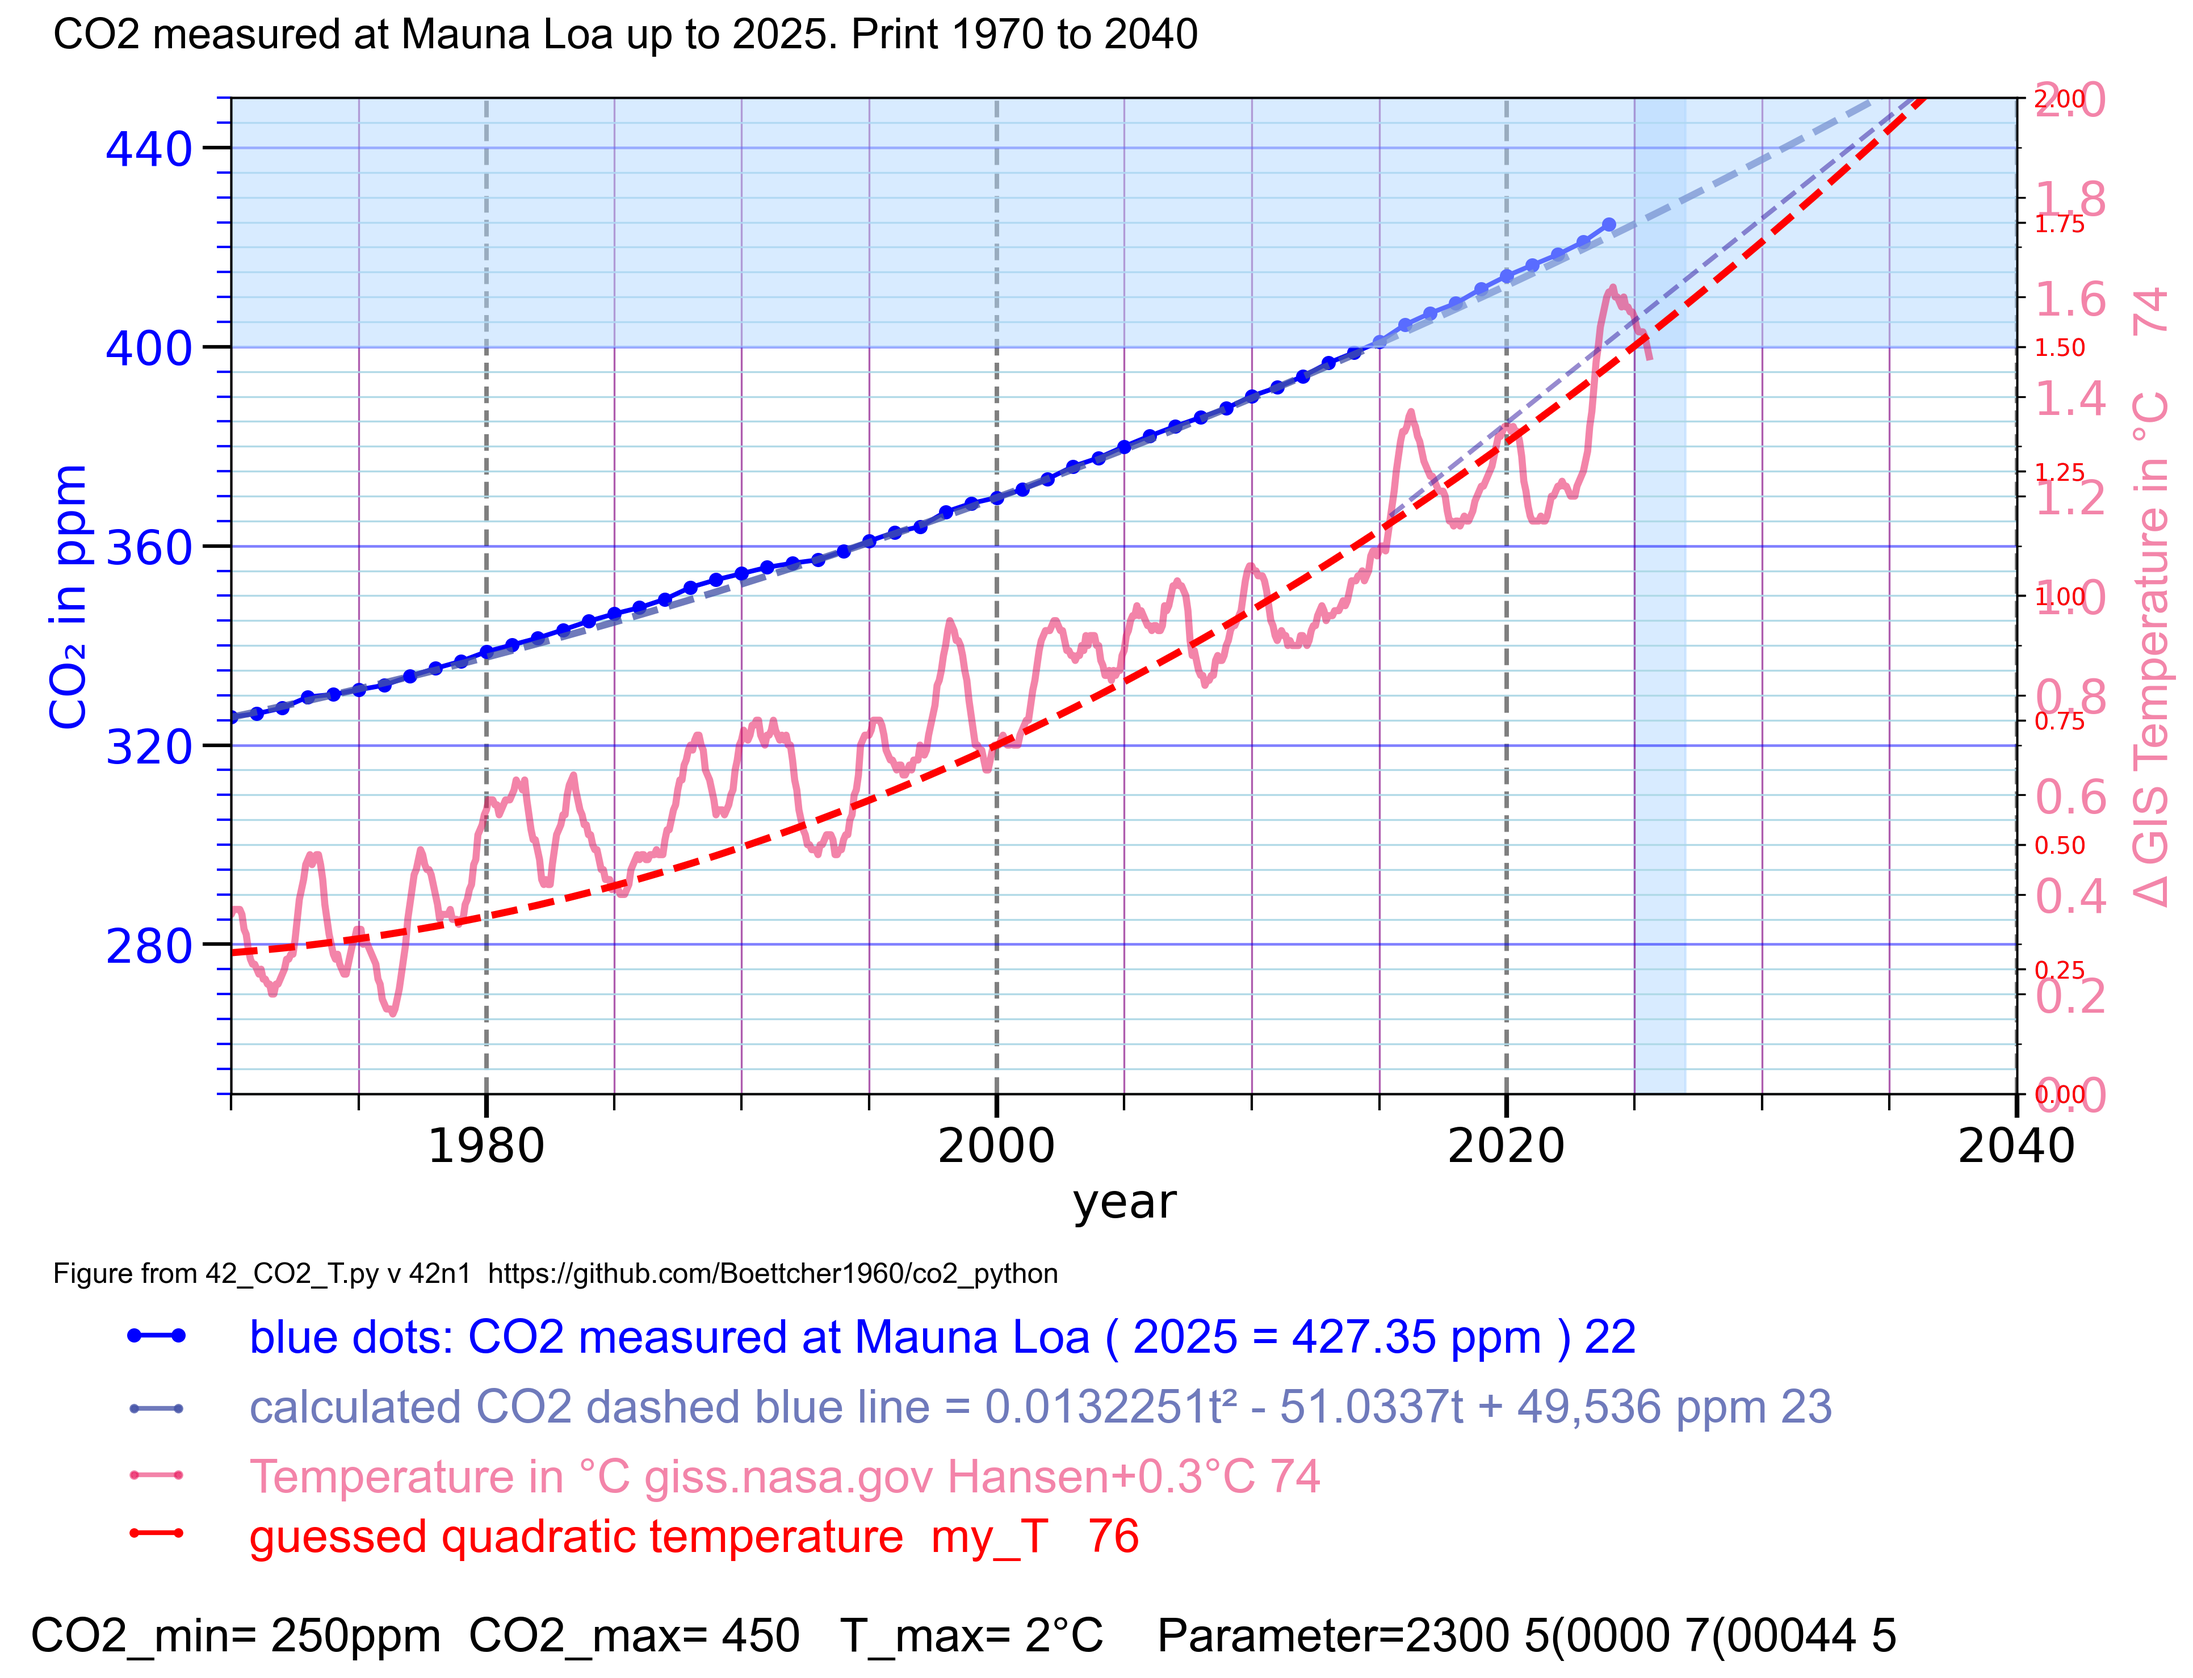
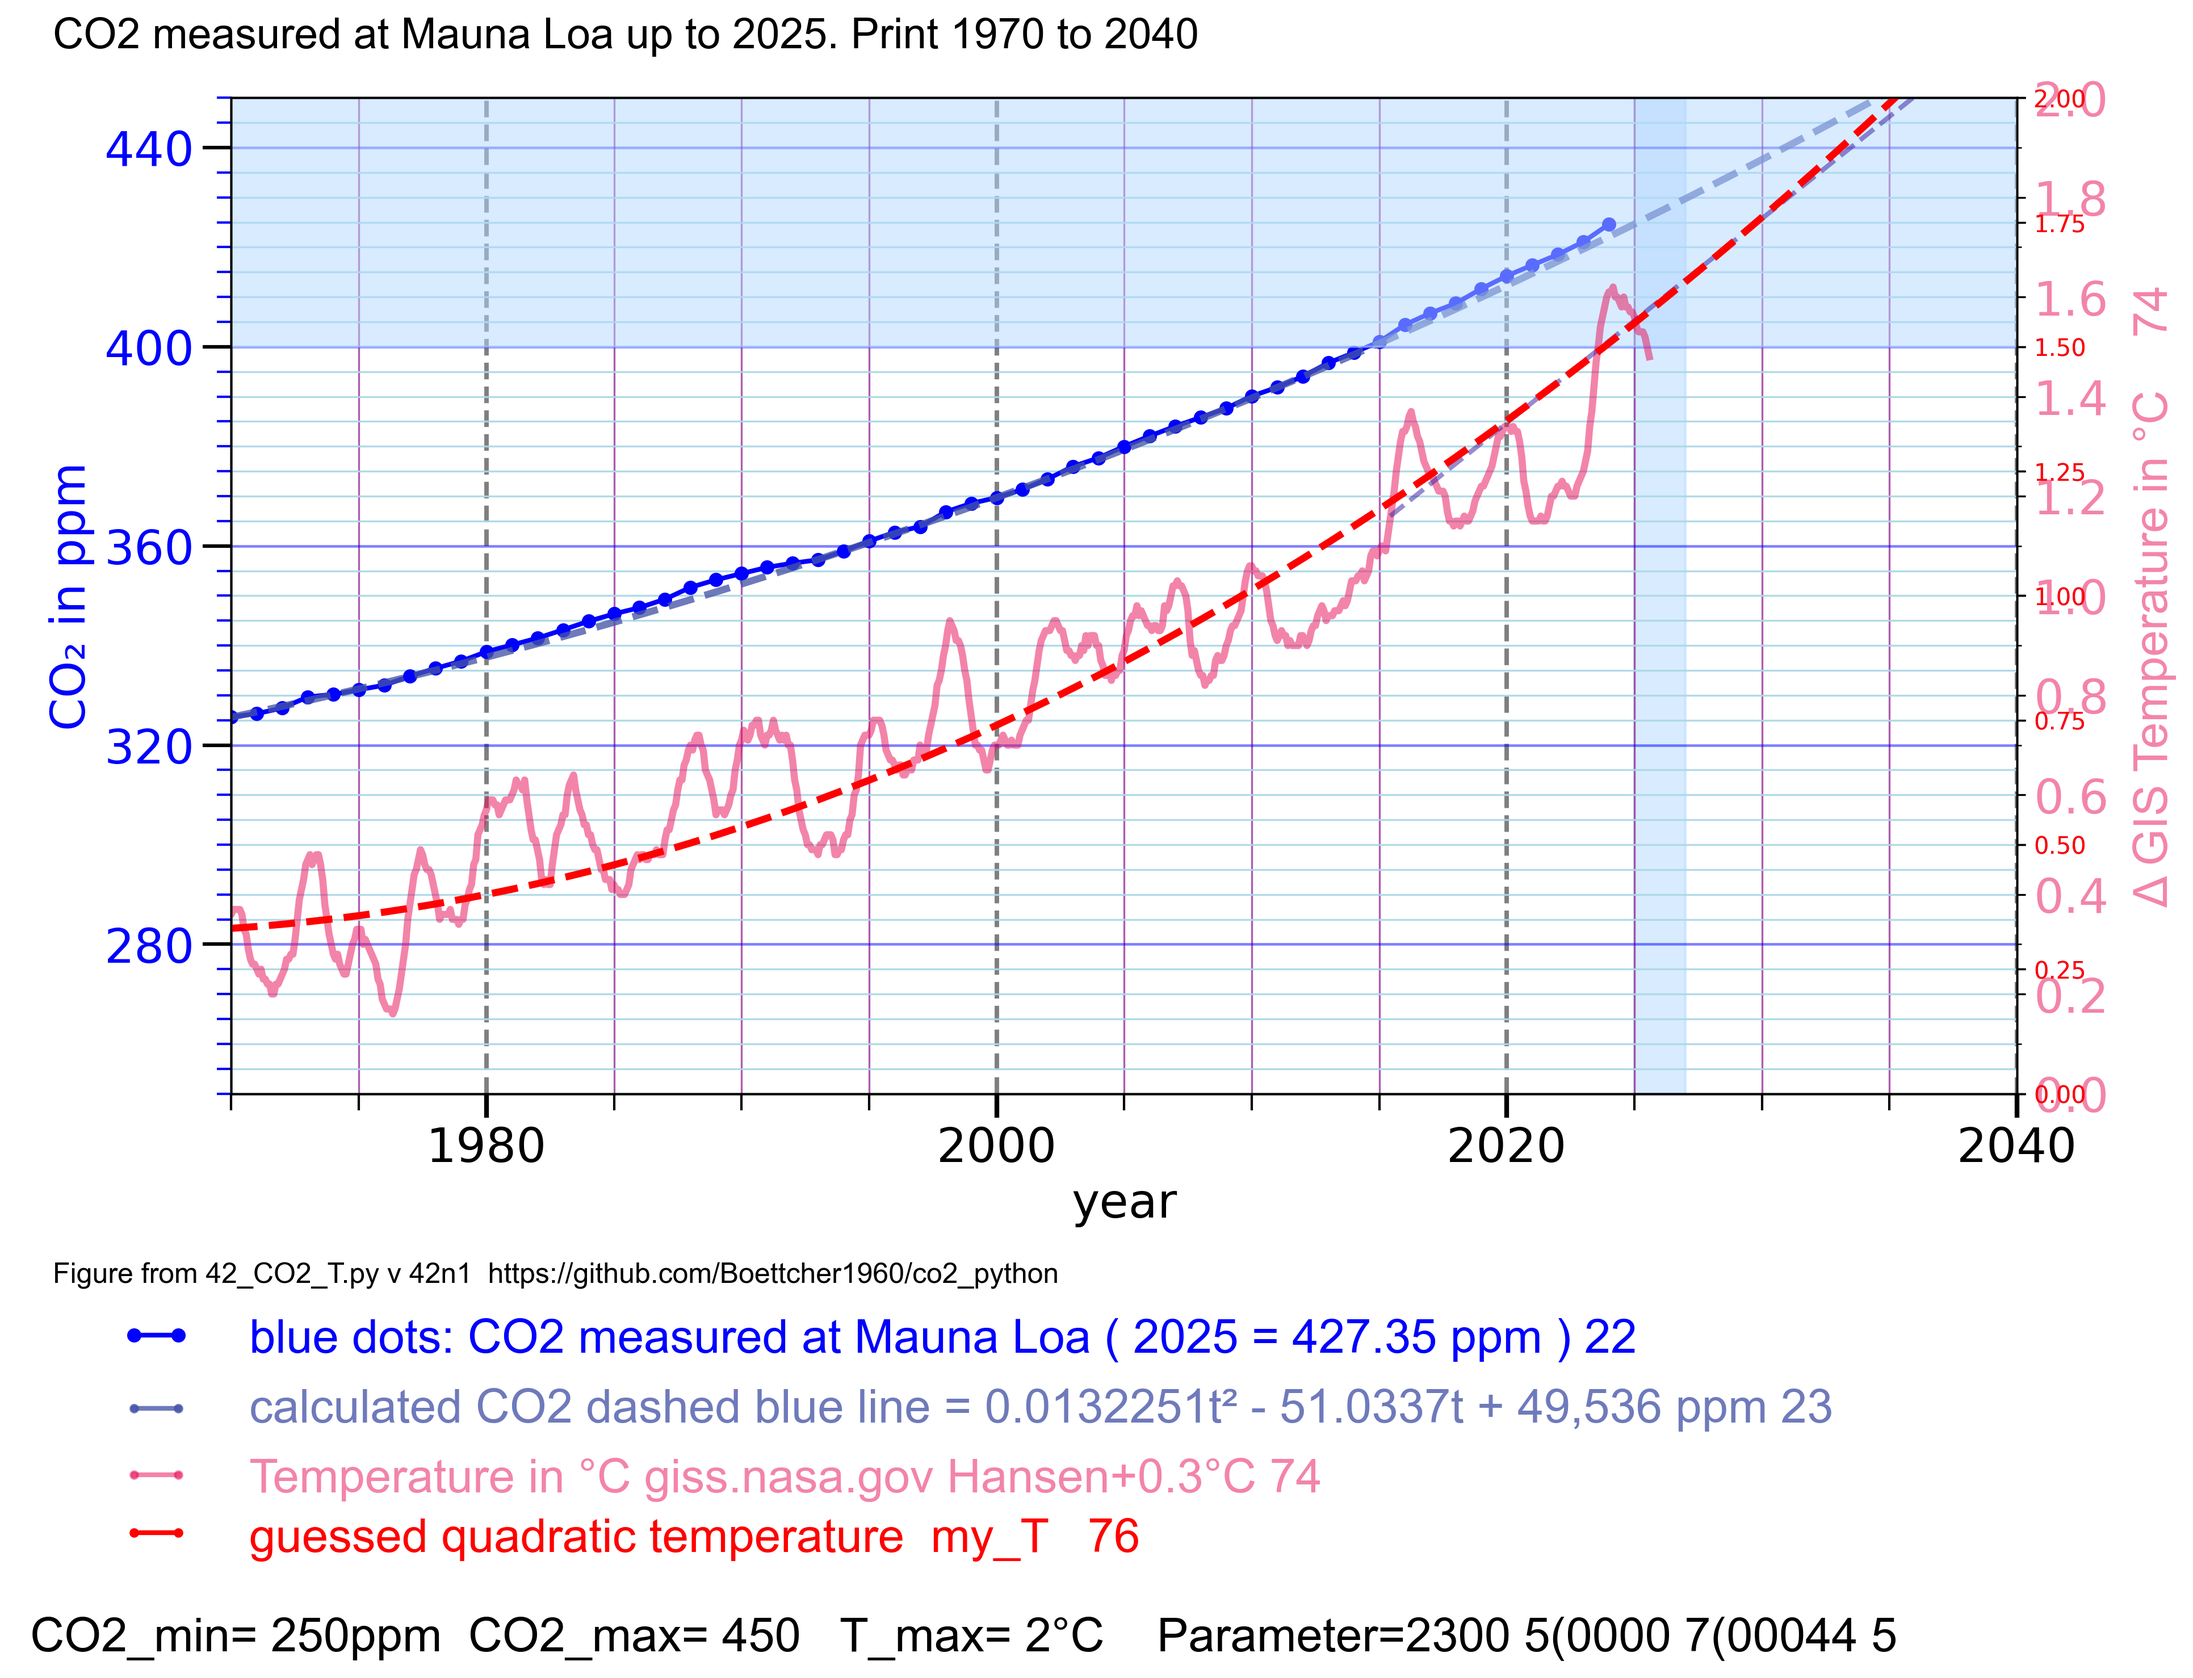
def T_model76n2(t):     x = t - 2000     return 0.00034 * x**2 + 0.0238 * x + 0.74

diff --git a/42_CO2_T.py b/42_CO2_T.py
@@ -591,12 +591,15 @@ my76_text="guessed quadratic temperature  my_T   76 "
 # 1.06686   2013
 # 1.42726   2023
 # 1.54864   2026
-def T_model76m10(t):
+def T_model76n2(t):
     x = t - 2000
-    return 0.00034 * x**2 + 0.0238 * x + 0.7
+    return 0.00034 * x**2 + 0.0238 * x + 0.74
+def T_model76n1(t):
+    x = t - 2000
+    return 0.00033 * x**2 + 0.0238 * x + 0.77
 def T_model76(t):
     x = t - 2000
-    return 0.00033 * x**2 + 0.0238 * x + 0.7
+    return 0.00034 * x**2 + 0.0238 * x + 0.74
 # 7.6.2 years scale x axis
 years76 = np.arange(x_anf, x_end + 1 )
 T_76values = T_model76(years76)
